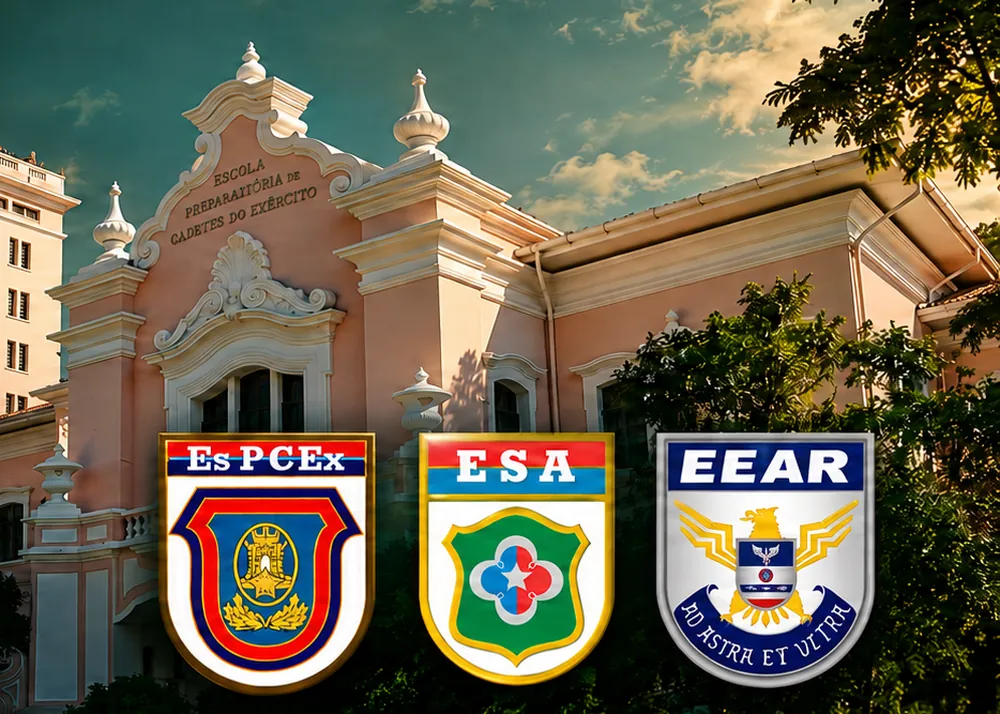
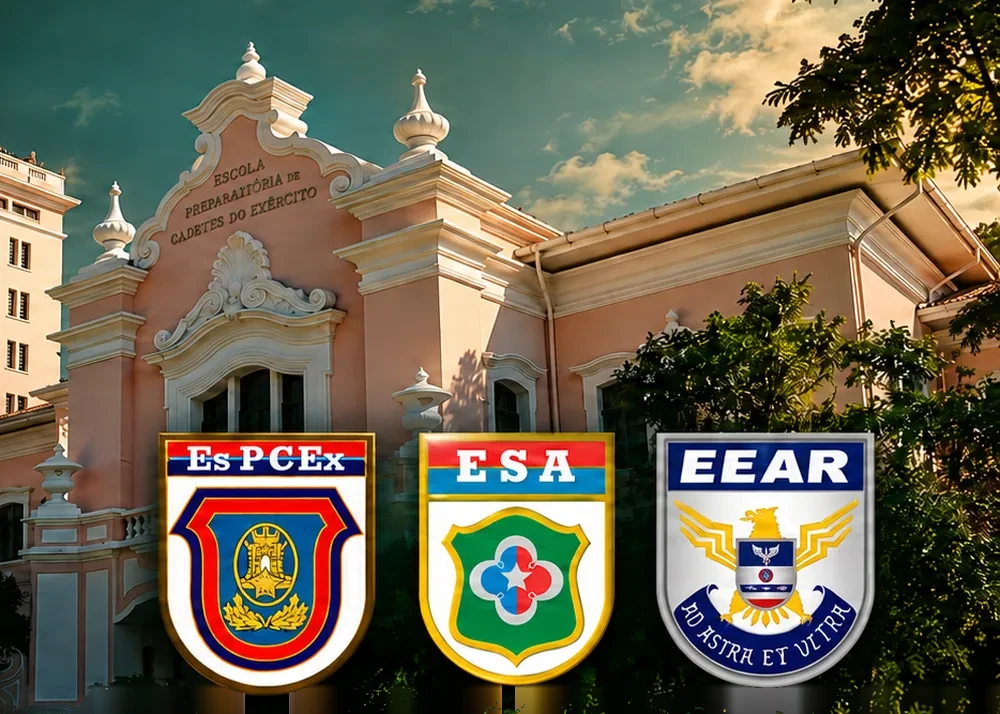
EsPCEx sem a barrinha escura embaixo dos escudos; Inicio 12/01 tambem na atualizacao automatica do conteudo

diff --git a/app/api/[...path]/route.ts b/app/api/[...path]/route.ts
@@ -27,7 +27,7 @@ const choices=['0','1','2','3','4','5','6','7'];
 const communityDefaults:Rec[]=[{id:'comunidade',title:'Comunidade GETEPE',visible:true,fields:{'Link da comunidade (WhatsApp)':''}}];
 async function body(req:Request,max=500000){const raw=await req.text();if(raw.length>max)fail('Conteúdo muito grande.',413);try{return JSON.parse(raw)}catch{fail('Dados inválidos.')}}
 async function admin(req:Request){const user=await getAdminIdentity(req);if(!user)fail('Entre com a conta autorizada.',401);const allowed=(bindings().ADMIN_EMAILS||'').toLowerCase().split(',').map(x=>x.trim()).filter(Boolean);const dev=process.env.NODE_ENV==='development'&&user.userId==='local_seedy'&&user.email==='seedy@sites.test';if(!dev&&!allowed.includes(user.email.toLowerCase()))fail('Esta conta não tem acesso ao painel.',403);return user;}
-function normalized(data:unknown){const next=structuredClone(data) as Content;next.provas??=[];next.comunidade??=structuredClone(communityDefaults);for(const d of communityDefaults)if(!next.comunidade.some(r=>r.id===d.id))next.comunidade.push(structuredClone(d));next.paginas??=structuredClone(pageDefaults) as unknown as Rec[];for(const r of next.carrossel||[]){if(r.fields?.['Chamada superior']==='NOVAS TURMAS · INÍCIO EM 29/09')r.fields['Chamada superior']='PREPARAÇÃO PARA CONCURSOS MILITARES';if(r.fields?.Descrição)r.fields.Descrição=r.fields.Descrição.replace('Estude no seu ritmo, com Prazo conforme o curso aos cursos gravados.','Estude no seu ritmo e consulte o prazo de acesso de cada curso.')}for(const upgrade of [{"id":"slide-0","old":"Seu futuro tem\num objetivo.\nPrepare-se para ele.","title":"APMBB · Barro Branco","fields":{"Chamada superior":"NOVA TURMA · INÍCIO EM 12/01","Descrição":"Preparação presencial e online. Escolha sua modalidade e consulte horários, valores e materiais com a equipe.","Texto do botão":"Mais informações","Destino do botão":"#informacoes/apmbb-janeiro","Imagem":"/carrossel-apmbb-janeiro.png","Texto alternativo":"GETEPE — nova turma APMBB · Barro Branco, início em 12/01, presencial e online.","Formato":"banner"}},{"id":"slide-1","old":"Mais confiança.\nUma matéria\nde cada vez.","title":"EsPCEx · ESA · EEAR","fields":{"Chamada superior":"NOVA TURMA · INÍCIO EM 12/01","Descrição":"Preparação presencial e online. Escolha sua modalidade e consulte horários, valores e materiais com a equipe.","Texto do botão":"Mais informações","Destino do botão":"#informacoes/espcex-janeiro","Imagem":"/carrossel-espcex-janeiro.png","Texto alternativo":"GETEPE — nova turma EsPCEx · ESA · EEAR, início em 12/01, presencial e online.","Formato":"banner"}},{"id":"slide-2","old":"Cada conquista\nfaz parte da\nnossa história.","title":"Venha fazer parte do nosso time de aprovados!","fields":{"Chamada superior":"APROVADOS · NOSSA HISTÓRIA","Descrição":"Conheça as turmas do GETEPE e prepare-se para sua carreira militar.","Texto do botão":"Conhecer as turmas","Destino do botão":"#cursos","Imagem":"/carrossel-aprovados-tratados.png","Texto alternativo":"Venha fazer parte do nosso time de aprovados! Treze alunos do GETEPE, identificados por nome e instituição: EPCAr, EsPCEx, APMBB, AFA, ESA e Colégio Naval.","Formato":"banner"}}]){const r=next.carrossel?.find((r:Rec)=>r.id===upgrade.id);if(r&&r.title===upgrade.old&&!r.fields?.Imagem){r.title=upgrade.title;r.fields={...r.fields,...upgrade.fields};}}for(const r of next.carrossel||[]){if(r.id==='slide-2'&&r.fields?.Imagem==='/carrossel-aprovados.png')r.fields.Imagem='/carrossel-aprovados-tratados.png';}for(const r of next.carrossel||[]){if(r.id==='slide-2'&&r.fields?.Imagem==='/carrossel-aprovados-originais.png')r.fields.Imagem='/carrossel-aprovados-tratados.png';}for(const u of [{"id":"matematica","image":"/curso-gravado-matematica.png","alt":"GETEPE — curso gravado de Matemática — Mestre Joselias"},{"id":"biologia","image":"/curso-gravado-biologia.png","alt":"GETEPE — curso gravado de Biologia — Mestre Okuma"},{"id":"portugues","image":"/curso-gravado-gramatica.png","alt":"GETEPE — curso gravado de Gramática — Mestre Fernando"}]){const r=next.cursos?.find((r:Rec)=>r.id===u.id);if(r&&!r.fields?.['Imagem do produto']){r.fields??={};r.fields['Imagem do produto']=u.image;r.fields['Texto alternativo da imagem']=u.alt;}}for(const r of next.carrossel||[]){if(r.id==='slide-2'&&['/carrossel-aprovados.png','/carrossel-aprovados-originais.png','/carrossel-aprovados-tratados.png'].includes(r.fields?.Imagem)){r.title="Cursos gravados por matéria";r.fields={...r.fields,...{"Chamada superior":"CURSOS GRAVADOS · POR MATÉRIA","Descrição":"Estude no seu ritmo. Gramática com Mestre Fernando, Matemática com Mestre Joselias e Biologia com Mestre Okuma.","Texto do botão":"Conhecer os cursos gravados","Destino do botão":"#gravados","Imagem":"/carrossel-cursos-gravados.png","Texto alternativo":"GETEPE — cursos gravados por matéria: Gramática com Mestre Fernando, Matemática com Mestre Joselias e Biologia com Mestre Okuma. Estude no seu ritmo.","Formato":"banner"}};}}return upgradeTrialAndDates(next)}
+function normalized(data:unknown){const next=structuredClone(data) as Content;next.provas??=[];next.comunidade??=structuredClone(communityDefaults);for(const d of communityDefaults)if(!next.comunidade.some(r=>r.id===d.id))next.comunidade.push(structuredClone(d));next.paginas??=structuredClone(pageDefaults) as unknown as Rec[];for(const r of next.carrossel||[]){if(r.fields?.['Chamada superior']==='NOVAS TURMAS · INÍCIO EM 29/09')r.fields['Chamada superior']='PREPARAÇÃO PARA CONCURSOS MILITARES';if(r.fields?.Descrição)r.fields.Descrição=r.fields.Descrição.replace('Estude no seu ritmo, com Prazo conforme o curso aos cursos gravados.','Estude no seu ritmo e consulte o prazo de acesso de cada curso.')}for(const upgrade of [{"id":"slide-0","old":"Seu futuro tem\num objetivo.\nPrepare-se para ele.","title":"APMBB · Barro Branco","fields":{"Chamada superior":"NOVA TURMA · INÍCIO 12/01","Descrição":"Preparação presencial e online. Escolha sua modalidade e consulte horários, valores e materiais com a equipe.","Texto do botão":"Mais informações","Destino do botão":"#informacoes/apmbb-janeiro","Imagem":"/carrossel-apmbb-janeiro.png","Texto alternativo":"GETEPE — nova turma APMBB · Barro Branco, início em 12/01, presencial e online.","Formato":"banner"}},{"id":"slide-1","old":"Mais confiança.\nUma matéria\nde cada vez.","title":"EsPCEx · ESA · EEAR","fields":{"Chamada superior":"NOVA TURMA · INÍCIO 12/01","Descrição":"Preparação presencial e online. Escolha sua modalidade e consulte horários, valores e materiais com a equipe.","Texto do botão":"Mais informações","Destino do botão":"#informacoes/espcex-janeiro","Imagem":"/carrossel-espcex-janeiro.png","Texto alternativo":"GETEPE — nova turma EsPCEx · ESA · EEAR, início em 12/01, presencial e online.","Formato":"banner"}},{"id":"slide-2","old":"Cada conquista\nfaz parte da\nnossa história.","title":"Venha fazer parte do nosso time de aprovados!","fields":{"Chamada superior":"APROVADOS · NOSSA HISTÓRIA","Descrição":"Conheça as turmas do GETEPE e prepare-se para sua carreira militar.","Texto do botão":"Conhecer as turmas","Destino do botão":"#cursos","Imagem":"/carrossel-aprovados-tratados.png","Texto alternativo":"Venha fazer parte do nosso time de aprovados! Treze alunos do GETEPE, identificados por nome e instituição: EPCAr, EsPCEx, APMBB, AFA, ESA e Colégio Naval.","Formato":"banner"}}]){const r=next.carrossel?.find((r:Rec)=>r.id===upgrade.id);if(r&&r.title===upgrade.old&&!r.fields?.Imagem){r.title=upgrade.title;r.fields={...r.fields,...upgrade.fields};}}for(const r of next.carrossel||[]){if(r.id==='slide-2'&&r.fields?.Imagem==='/carrossel-aprovados.png')r.fields.Imagem='/carrossel-aprovados-tratados.png';}for(const r of next.carrossel||[]){if(r.id==='slide-2'&&r.fields?.Imagem==='/carrossel-aprovados-originais.png')r.fields.Imagem='/carrossel-aprovados-tratados.png';}for(const u of [{"id":"matematica","image":"/curso-gravado-matematica.png","alt":"GETEPE — curso gravado de Matemática — Mestre Joselias"},{"id":"biologia","image":"/curso-gravado-biologia.png","alt":"GETEPE — curso gravado de Biologia — Mestre Okuma"},{"id":"portugues","image":"/curso-gravado-gramatica.png","alt":"GETEPE — curso gravado de Gramática — Mestre Fernando"}]){const r=next.cursos?.find((r:Rec)=>r.id===u.id);if(r&&!r.fields?.['Imagem do produto']){r.fields??={};r.fields['Imagem do produto']=u.image;r.fields['Texto alternativo da imagem']=u.alt;}}for(const r of next.carrossel||[]){if(r.id==='slide-2'&&['/carrossel-aprovados.png','/carrossel-aprovados-originais.png','/carrossel-aprovados-tratados.png'].includes(r.fields?.Imagem)){r.title="Cursos gravados por matéria";r.fields={...r.fields,...{"Chamada superior":"CURSOS GRAVADOS · POR MATÉRIA","Descrição":"Estude no seu ritmo. Gramática com Mestre Fernando, Matemática com Mestre Joselias e Biologia com Mestre Okuma.","Texto do botão":"Conhecer os cursos gravados","Destino do botão":"#gravados","Imagem":"/carrossel-cursos-gravados.png","Texto alternativo":"GETEPE — cursos gravados por matéria: Gramática com Mestre Fernando, Matemática com Mestre Joselias e Biologia com Mestre Okuma. Estude no seu ritmo.","Formato":"banner"}};}}return upgradeTrialAndDates(next)}
 // Ajustes de conteúdo aplicados na leitura (como os demais acima): só trocam valores que ainda são exatamente os antigos,
 // para não sobrescrever o que a equipe editar no painel.
 const COURSE_DATES:Record<string,Record<string,[string[],string]>>={apmbb:{'Início':[['29 set 2026'],'12 jan 2027'],'Encerramento':[['25/06/2027','26/06/2027','27/07/2027'],'27/06/2027']},espcex:{'Início':[['03 nov 2026'],'12 jan 2027'],'Encerramento':[['10/09/2027'],'12/09/2027']}};
